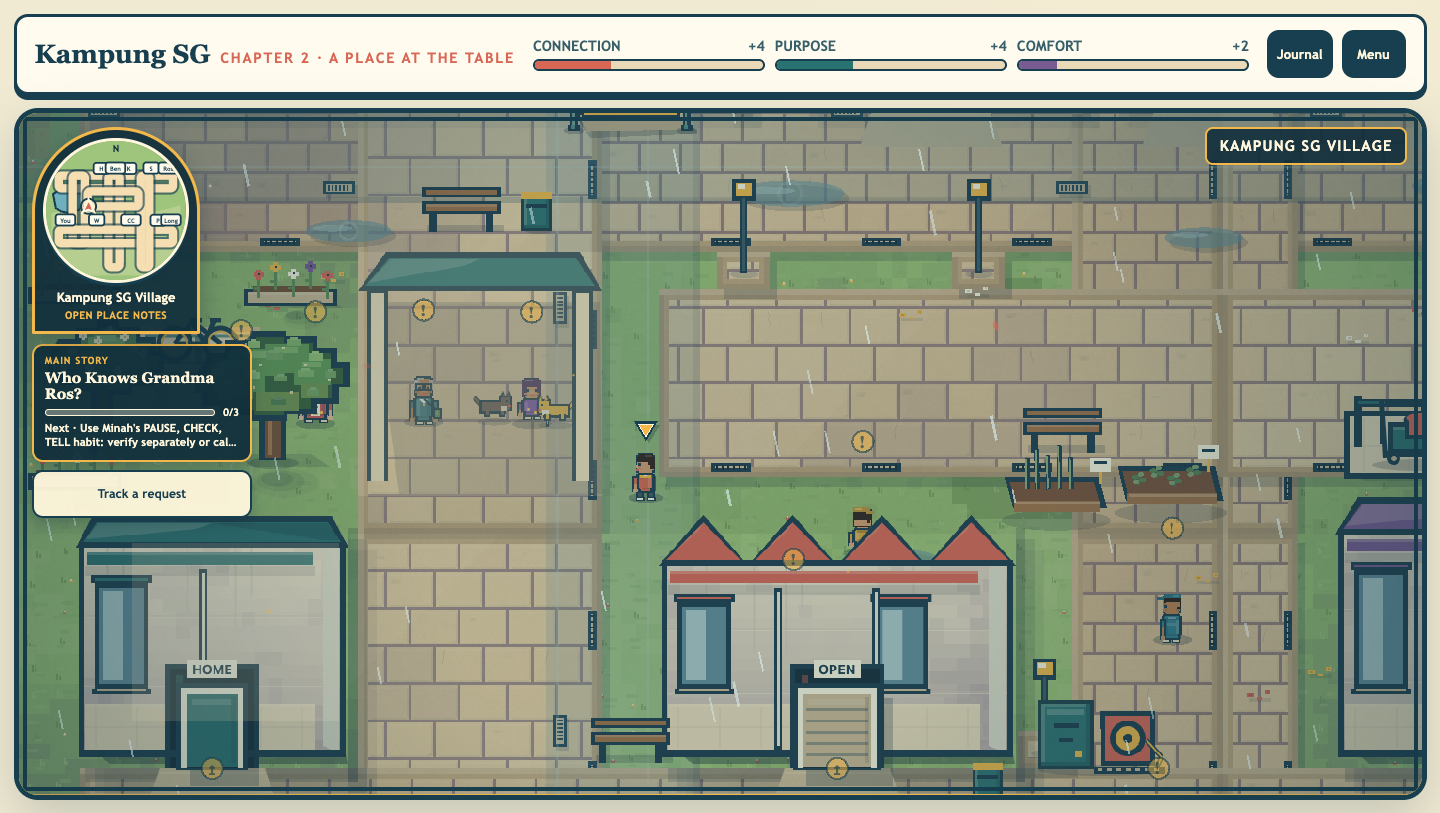
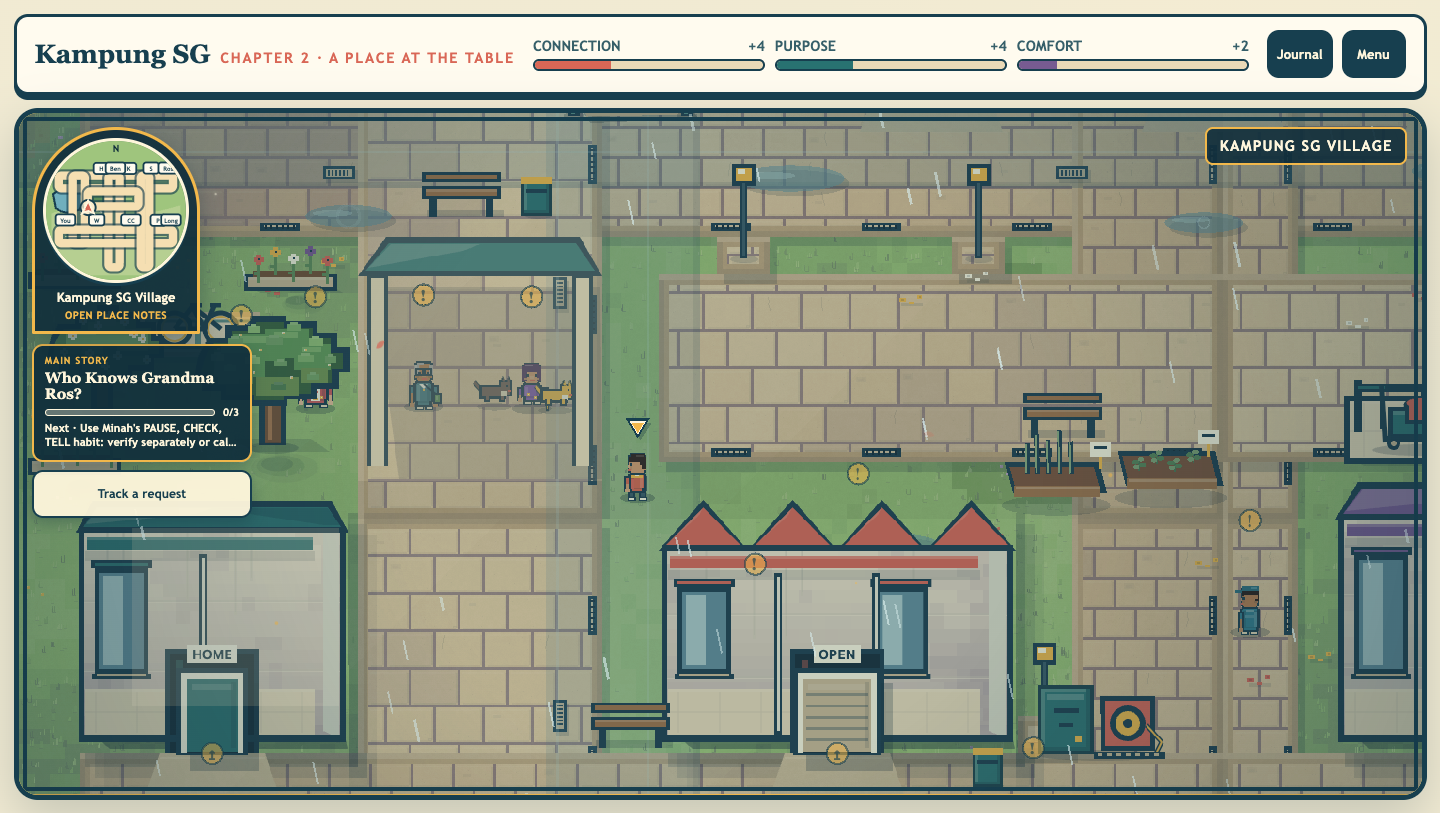
Let the grass clump instead of growing at a constant rate
Every 32px tile used to get the same two blades and the same occasional
flower. Texture applied at a constant rate is exactly how the eye finds a grid,
and it is why the verges read as a green fill with confetti on it.

Density now comes off a low-frequency lushness field, squared so the curve is
steep: thick where it is damp and sheltered, worn to nothing where people walk.
The bare tiles matter as much as the thick ones - they are what make the thick
ones read as growth rather than as noise.

Each clump is three to five blades fanning from one root with a shadow-tinted
smudge underneath, rather than a lone rectangle. Blooms appear only where the
grass is thick enough to support them, and in pairs, because scattered singles
read as confetti. Trodden ground gets leaf litter instead.

Costs nothing at runtime: it is baked once into the four exterior textures.
Measured after the change - p95 9.2ms and 1.86ms/frame main thread against a
28ms / 8ms budget, and 7.31ms/frame at 4x throttle against 20ms.

Gate: typecheck clean, 172 unit tests, 72 browser checks, 0 vulnerabilities.

diff --git a/src/game/threeQuarterArt.ts b/src/game/threeQuarterArt.ts
@@ -1,4 +1,10 @@
-import { macroField, ramp, shadowTint, tonalStep } from "./textureGrain.js";
+import {
+  macroField,
+  ramp,
+  rimLight,
+  shadowTint,
+  tonalStep,
+} from "./textureGrain.js";
 import Phaser from "phaser";
 
 import {
@@ -215,8 +221,6 @@ export function paintThreeQuarterTerrain(
   width = 1280,
   height = 800,
 ): void {
-  const lightGrass = lightenColour(PALETTE.grass, 0.12);
-  const darkGrass = darkenColour(PALETTE.grass, 0.12);
   graphics.fillStyle(PALETTE.grass).fillRect(0, 0, width, height);
 
   // Macro pass: mottle the turf into soft patches before any blade detail.
@@ -254,28 +258,70 @@ export function paintThreeQuarterTerrain(
     }
   }
 
+  // Growth.
+  //
+  // The old pass put the same two blades and one occasional flower in every
+  // tile, which reads as texture applied at a constant rate - the eye finds the
+  // 32px grid immediately. Real ground clumps: thick where it is damp and
+  // sheltered, worn to almost nothing where people walk.
+  //
+  // So density comes off a low-frequency lushness field rather than being
+  // fixed, and each clump is a small cluster of blades around a point instead
+  // of a lone rectangle. Bare tiles are as important as thick ones; they are
+  // what make the thick ones read as growth.
+  const BLADE_TONES = ramp(PALETTE.grass, 6, 0.34);
   for (let y = 0; y < height; y += TILE_SIZE) {
     for (let x = 0; x < width; x += TILE_SIZE) {
-      const seed = hash(Math.floor((originX + x) / TILE_SIZE), Math.floor((originY + y) / TILE_SIZE));
-      graphics
-        .fillStyle(seed % 3 === 0 ? lightGrass : darkGrass, 0.34)
-        .fillRect(x + 3 + seed % 14, y + 5 + (seed >>> 6) % 13, 8 + (seed >>> 11) % 10, 4)
-        .fillRect(x + 8 + (seed >>> 3) % 12, y + 21 + (seed >>> 9) % 7, 6 + (seed >>> 14) % 7, 3)
-        .fillStyle(seed % 2 === 0 ? PALETTE.grassDark : lightGrass, 0.66)
-        .fillRect(x + 5 + (seed >>> 17) % 19, y + 8 + (seed >>> 22) % 14, 2, 7)
-        .fillRect(x + 8 + (seed >>> 17) % 19, y + 11 + (seed >>> 22) % 14, 2, 4);
-      if (seed % 7 === 2) {
+      const worldX = originX + x;
+      const worldY = originY + y;
+      const seed = hash(Math.floor(worldX / TILE_SIZE), Math.floor(worldY / TILE_SIZE));
+      const lush = macroField(worldX + 51, worldY + 907, 210) * 0.62
+        + macroField(worldX + 613, worldY + 77, 74) * 0.38;
+      const clumps = Math.round(lush * lush * 9);
+
+      for (let clump = 0; clump < clumps; clump += 1) {
+        const clumpSeed = hash(worldX + clump * 41, worldY + clump * 23);
+        const baseX = x + 2 + clumpSeed % (TILE_SIZE - 6);
+        const baseY = y + 3 + (clumpSeed >>> 7) % (TILE_SIZE - 8);
+        const tone = BLADE_TONES[(clumpSeed >>> 3) % BLADE_TONES.length]
+          ?? PALETTE.grass;
+        // Three to five blades fanning from one root, so it reads as a plant.
+        const blades = 3 + (clumpSeed >>> 13) % 3;
+        graphics.fillStyle(tone, 0.72);
+        for (let blade = 0; blade < blades; blade += 1) {
+          const lean = ((clumpSeed >>> (blade * 4)) % 5) - 2;
+          const tall = 3 + ((clumpSeed >>> (blade * 3 + 2)) % 5);
+          graphics.fillRect(baseX + lean, baseY - tall, 1, tall);
+        }
+        // A darker root shadow keeps the clump attached to the ground.
         graphics
-          .fillStyle(seed % 2 === 0 ? PALETTE.gold : PALETTE.coral, 0.78)
-          .fillRect(x + 10 + (seed >>> 17) % 14, y + 11 + (seed >>> 22) % 12, 4, 3)
-          .fillStyle(PALETTE.cream, 0.76)
-          .fillRect(x + 11 + (seed >>> 17) % 14, y + 10 + (seed >>> 22) % 12, 2, 2);
+          .fillStyle(shadowTint(tone, 0.3), 0.38)
+          .fillRect(baseX - 1, baseY, 4, 1);
       }
-      if (seed % 13 === 5) {
+
+      // Blooms only where it is thick enough to support them, and in pairs -
+      // scattered singles read as confetti.
+      if (lush > 0.58 && seed % 6 === 1) {
+        const bloom = [PALETTE.gold, PALETTE.coral, PALETTE.cream, 0xc9a2cf][
+          (seed >>> 5) % 4
+        ] ?? PALETTE.gold;
+        for (let petal = 0; petal < 2; petal += 1) {
+          const px = x + 6 + ((seed >>> (petal * 6)) % (TILE_SIZE - 12));
+          const py = y + 6 + ((seed >>> (petal * 5 + 3)) % (TILE_SIZE - 14));
+          graphics
+            .fillStyle(bloom, 0.82)
+            .fillRect(px, py, 3, 3)
+            .fillStyle(rimLight(bloom, 0.4), 0.7)
+            .fillRect(px, py, 1, 1);
+        }
+      }
+
+      // Leaf litter on the bare, trodden ground between the clumps.
+      if (lush < 0.3 && seed % 5 === 2) {
         graphics
-          .fillStyle(darkenColour(PALETTE.grass, 0.18), 0.26)
-          .fillRect(x + 4, y + 24, 13, 3)
-          .fillRect(x + 11, y + 21, 8, 3);
+          .fillStyle(shadowTint(PALETTE.grass, 0.34), 0.3)
+          .fillRect(x + 4 + seed % 12, y + 20 + (seed >>> 4) % 8, 5, 2)
+          .fillRect(x + 12 + (seed >>> 8) % 10, y + 15 + (seed >>> 11) % 9, 3, 2);
       }
     }
   }
